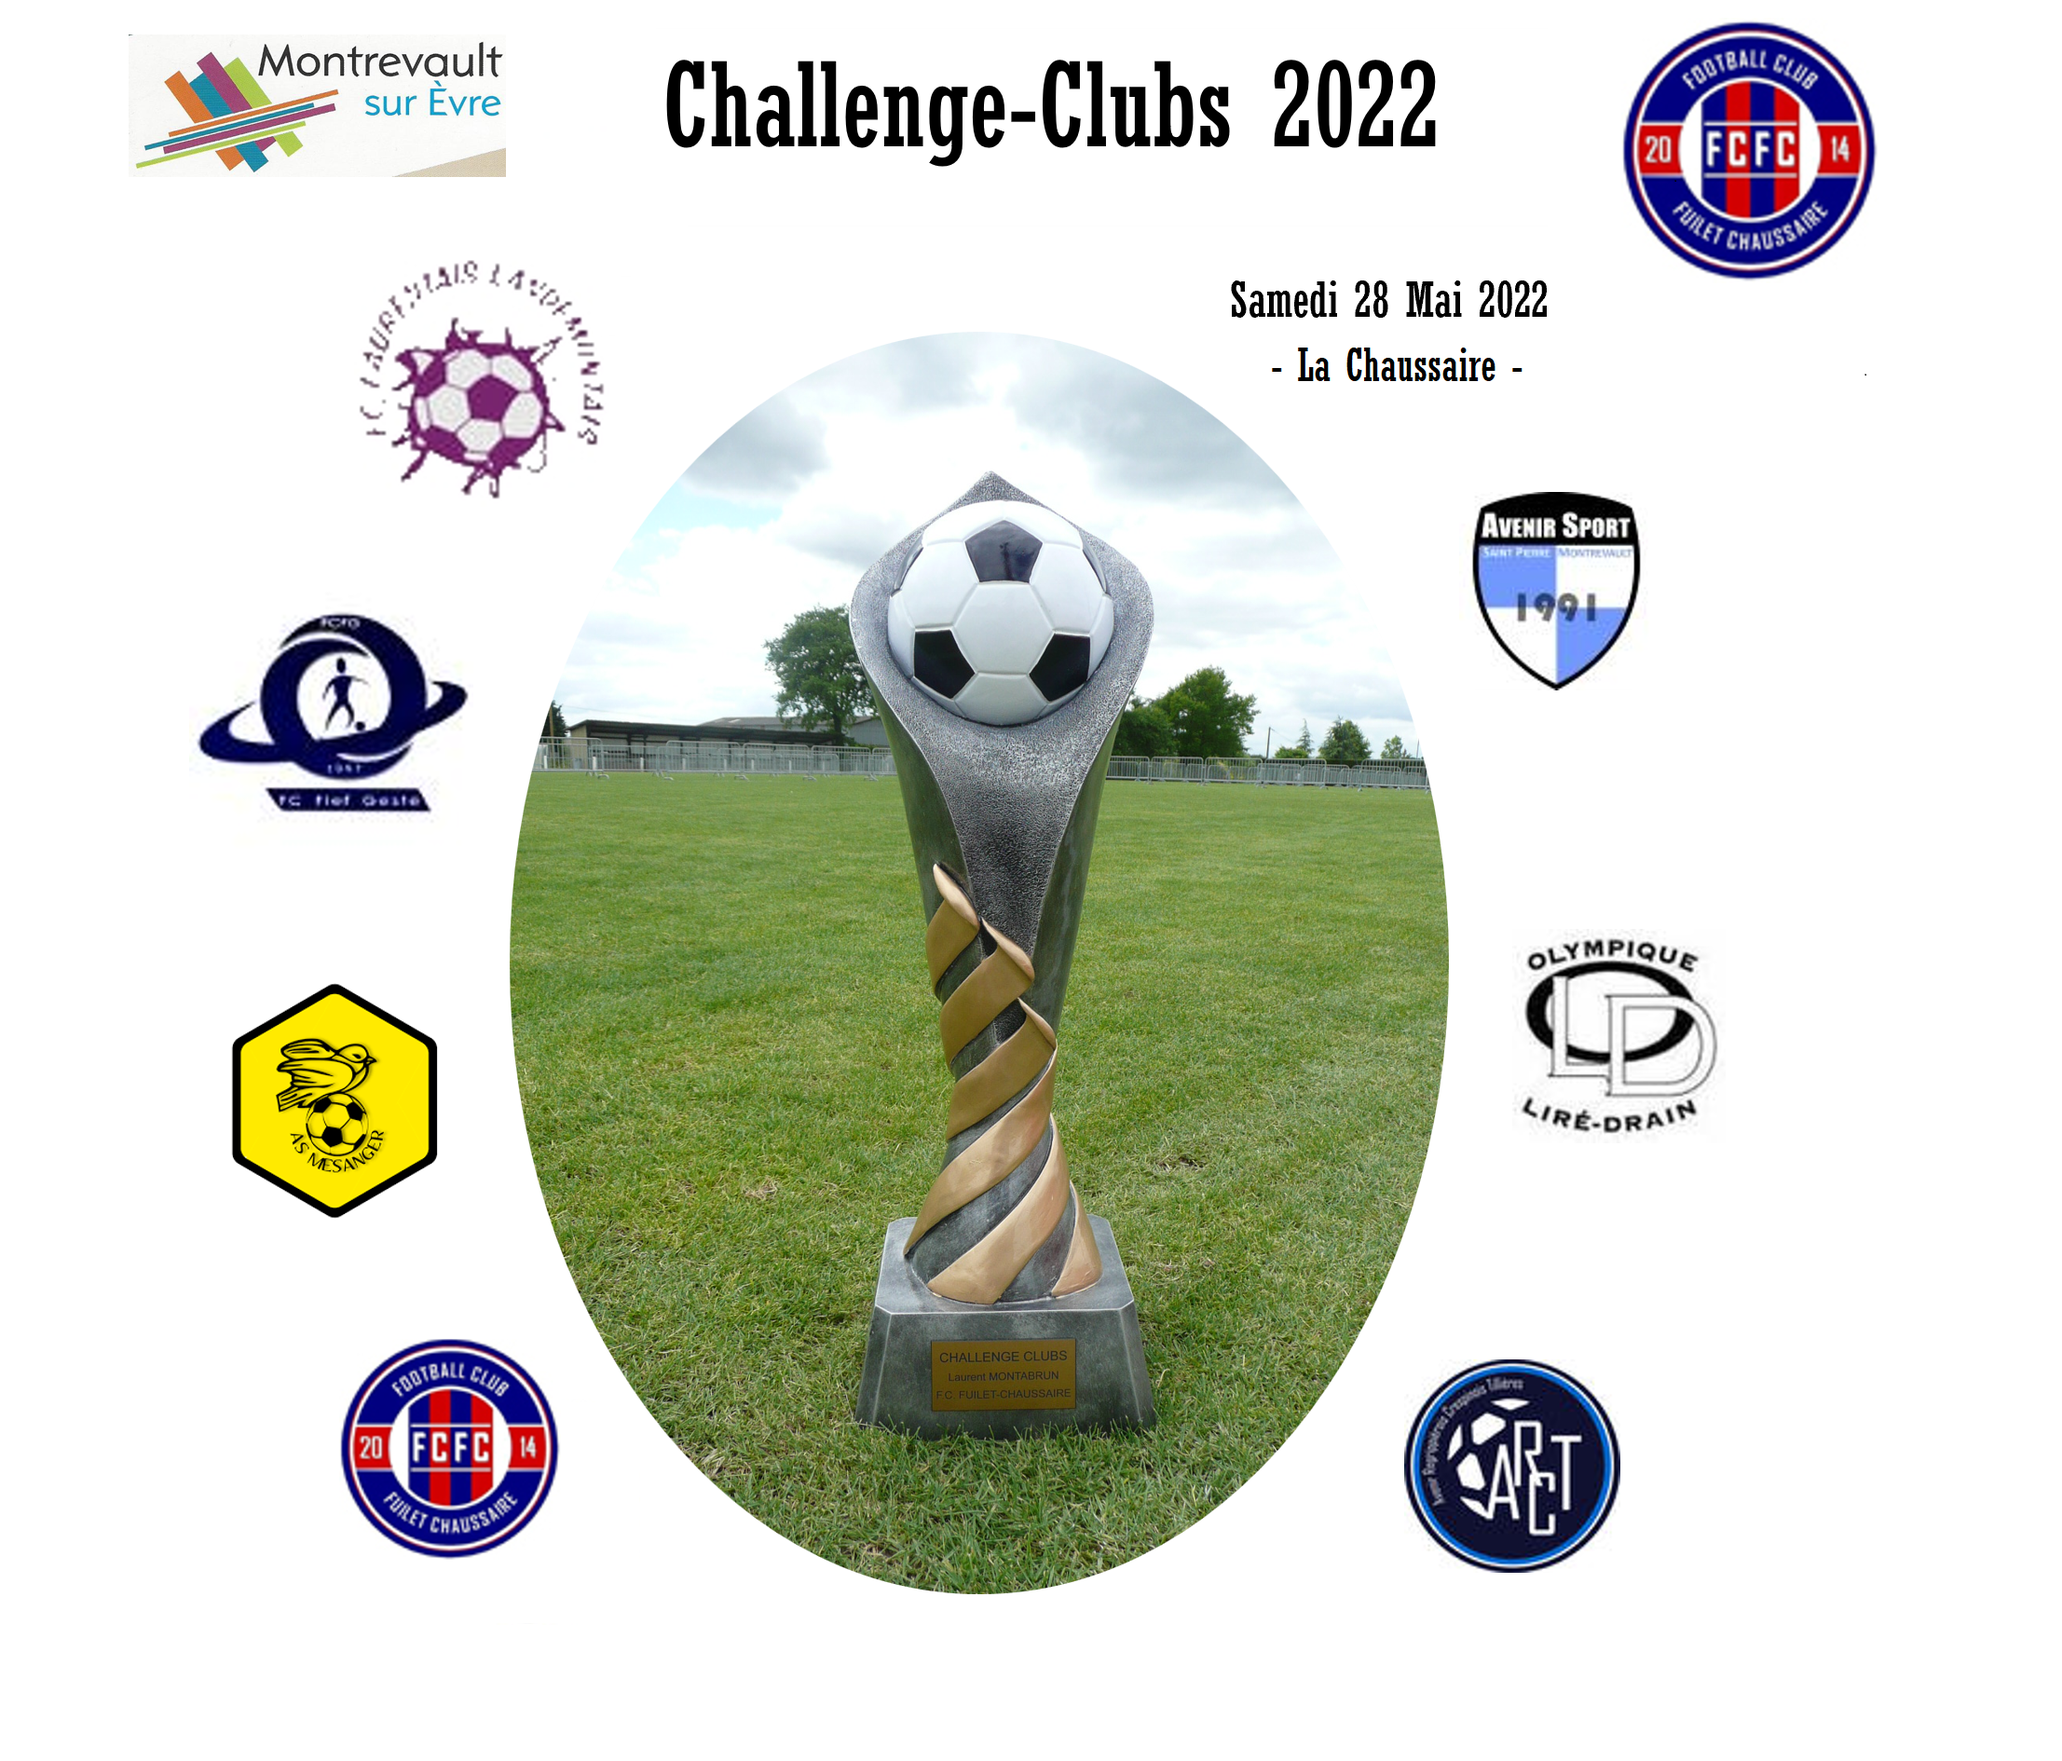
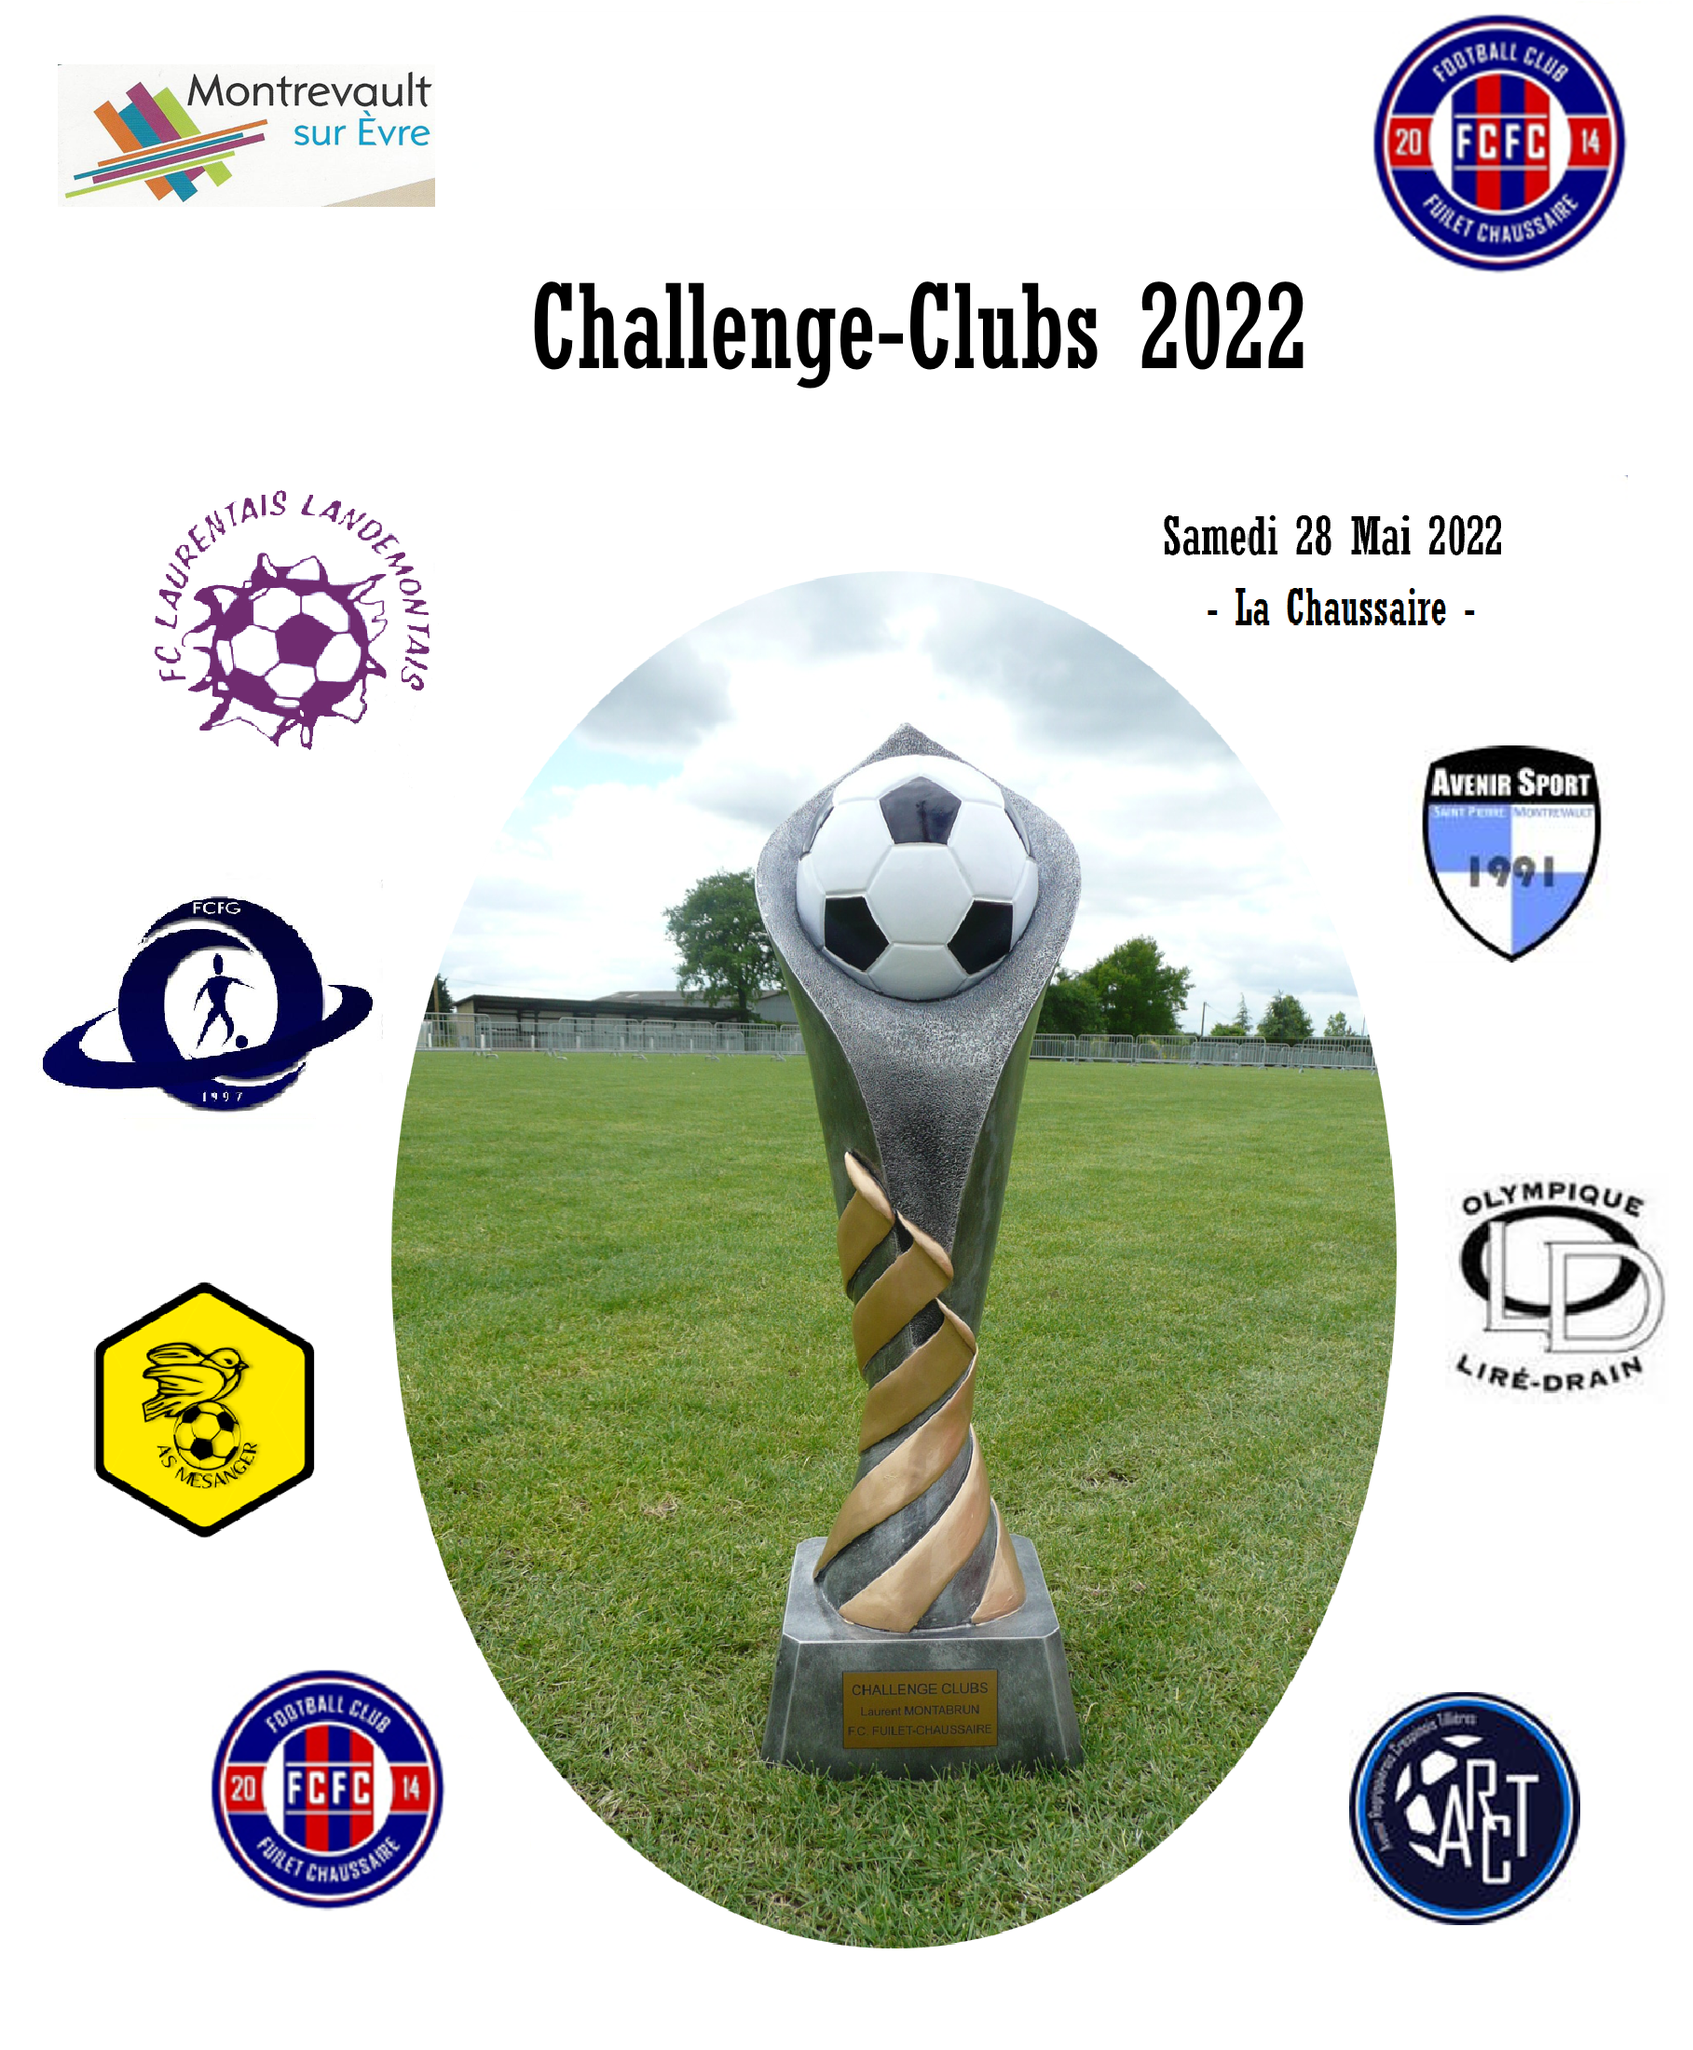
Modification Page accueil

diff --git a/index.html b/index.html
@@ -29,7 +29,7 @@
 				<!-- Wrapper for slides -->
 		<div class="carousel-inner">
 			<div class="item active">
-				<img src="./img/accueil_2022.png" alt="Challenge CLubs" style="width:100%;">
+				<img src="./img/accueil_2022_bis.png" alt="Challenge CLubs" style="width:100%;">
 			</div>
 
 
